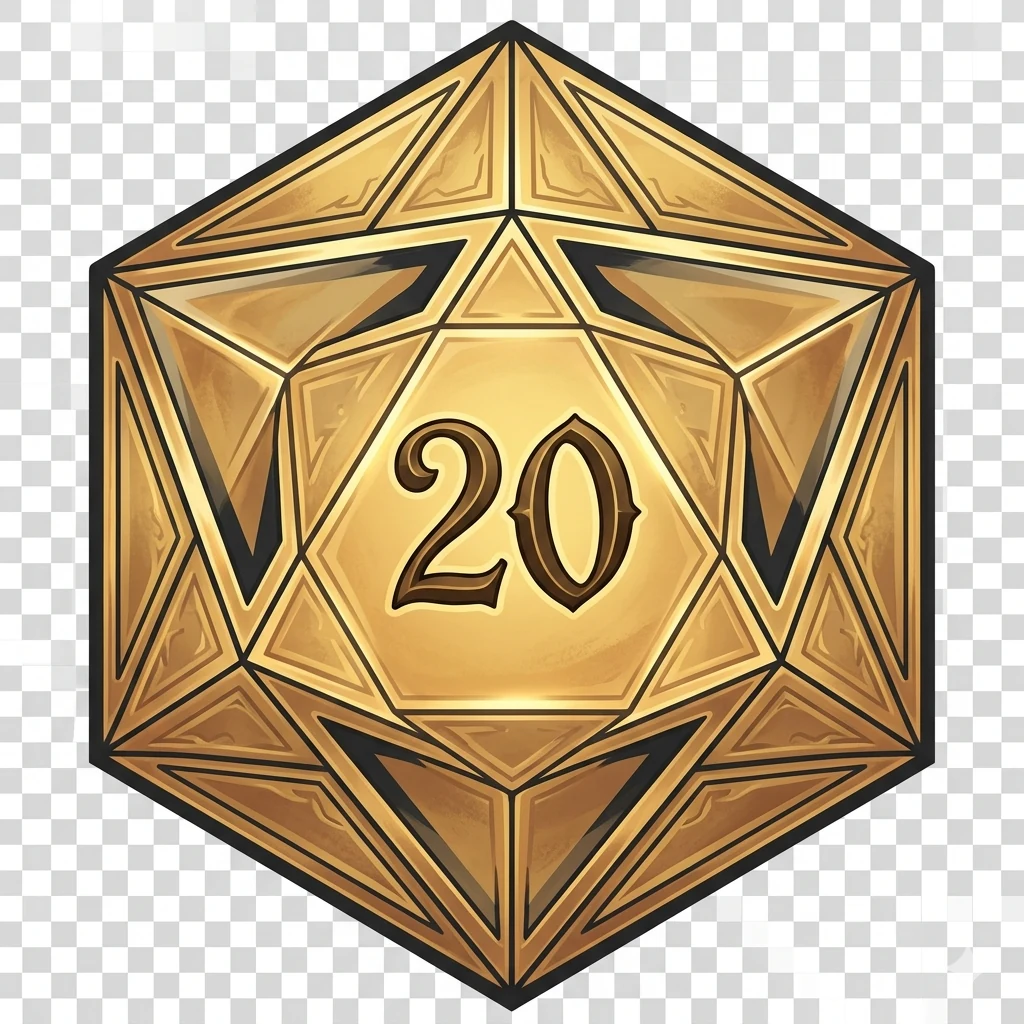
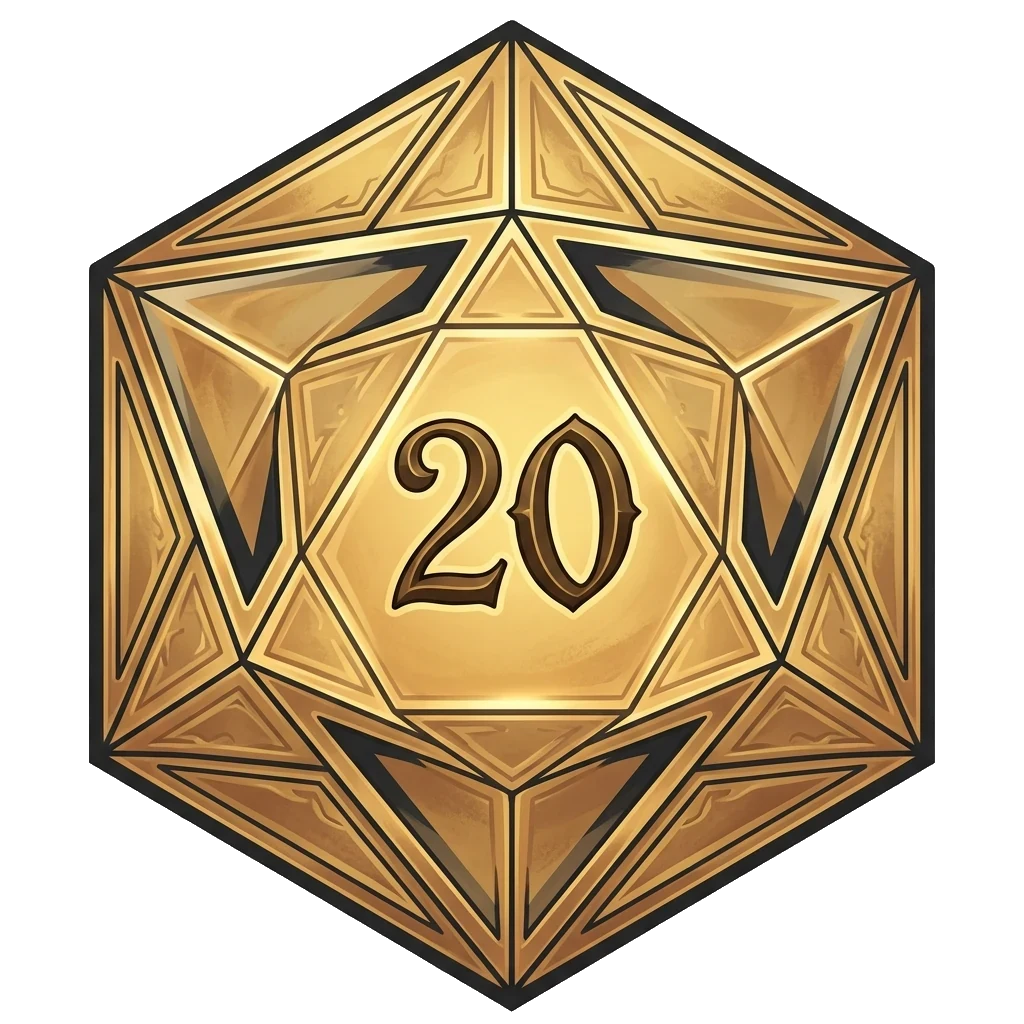
v3.10.6: fix(ui) — прозрачный фон d20 и текстовая d20 в right-rail
Проблема 1: на мобиле d20-fab в таб-баре виден белый/светло-серый
квадрат вокруг полиэдра. Причина: Gemini сгенерировал картинку с
непрозрачным светло-серым фоном (220,220,220), хоть промпт и просил
"transparent background".

Решение: BFS flood-fill из углов по похожему цвету (R,G,B >=180 AND
canal range <40 → бэкграунд). 418103 пикселей превращены в прозрачные,
золотой полиэдр и тёмные обводки сохранены. Файл переписан через PIL:
ImageDraw + getpixel/putpixel, save WebP q=88 method=6.

Проблема 2: на desktop right-rail кнопка d20 с большой картинкой
получилась слишком "увесистой" для боковой панели — пользователь
попросил убрать иконку. Вернули обычный btn-primary с текстом «🎲 d20».
Удалён связанный CSS-блок .rr-d20-btn/.rr-d20-icon/.rr-d20-label.

Cache-bust: CACHE_NAME v83 → v84 — клиенты подтянут свежий webp.

122/122 OK.

Changed region(s): [[0.0, 0.0, 1.0, 1.0]]

diff --git a/style.css b/style.css
@@ -1565,37 +1565,7 @@ body.no-character .drawer-divider { display: none; }
   }
   .rr-dice-grid .btn { padding: 0 4px; }
 
-  /* Большая d20-кнопка в right-rail — картинка d20-fab + надпись */
-  .rr-d20-btn {
-    width: 100%;
-    display: flex;
-    align-items: center;
-    justify-content: center;
-    gap: 10px;
-    padding: 8px 14px;
-    background: linear-gradient(180deg, rgba(212,168,75,0.18), rgba(212,168,75,0.08));
-    border: 1px solid var(--accent-color);
-    border-radius: var(--r-md, 10px);
-    color: var(--accent-color);
-    font-weight: 700;
-    font-size: 1.05em;
-    cursor: pointer;
-    transition: background 0.18s, transform 0.12s, box-shadow 0.18s;
-  }
-  .rr-d20-btn:hover {
-    background: linear-gradient(180deg, rgba(212,168,75,0.28), rgba(212,168,75,0.14));
-    box-shadow: 0 0 14px var(--accent-glow);
-    transform: translateY(-1px);
-  }
-  .rr-d20-btn:active { transform: translateY(0) scale(0.98); }
-  .rr-d20-icon {
-    width: 36px;
-    height: 36px;
-    object-fit: contain;
-    flex-shrink: 0;
-    filter: drop-shadow(0 2px 4px rgba(0,0,0,0.5));
-  }
-  .rr-d20-label { letter-spacing: 0.04em; }
+  /* d20-кнопка в right-rail — обычная btn-primary, без иконки */
 
   /* Inline-баджи активных состояний в right-rail */
   .rr-cond-list {

diff --git a/data.js b/data.js
@@ -1540,7 +1540,7 @@ const ASI_LEVELS = {
 // ============================================================
 // ВЕРСИЯ ПРИЛОЖЕНИЯ
 // ============================================================
-const APP_VERSION = "3.10.5";
+const APP_VERSION = "3.10.6";
 const APP_VERSION_DATE = "2026-05-15";
 
 // ============================================================
@@ -1826,9 +1826,17 @@ const FEATS_DATA = [
 // ============================================================
 const APP_CHANGELOG = [
   {
-    version: "3.10.5",
+    version: "3.10.6",
     date: "15 мая 2026",
     badge: "new",
+    changes: [
+      { type: "fix", text: "Прозрачный фон у d20-fab.webp (Gemini-картинка шла со светло-серым фоном, прогнал flood-fill из углов в Pillow); убрал иконку из right-rail d20-кнопки на desktop — вернул компактный текстовый btn-primary" }
+    ]
+  },
+  {
+    version: "3.10.5",
+    date: "15 мая 2026",
+    badge: "old",
     changes: [
       { type: "fix", text: "d20-кнопка в right-rail (desktop) теперь использует картинку d20-fab вместо эмодзи; openDiceModal страхуется от застрявшего .hidden; cache-bust для всех изменённых файлов" }
     ]

diff --git a/app-desktop.js b/app-desktop.js
@@ -32,7 +32,7 @@
         <button type="button" class="btn btn-secondary btn-sm" data-dice="10">d10</button>
         <button type="button" class="btn btn-secondary btn-sm" data-dice="12">d12</button>
       </div>
-      <button type="button" class="btn-block rr-d20-btn" id="rr-btn-d20" aria-label="Бросить d20"><img src="assets/d20-fab.webp" alt="" class="rr-d20-icon"><span class="rr-d20-label">d20</span></button>
+      <button type="button" class="btn btn-primary btn-block rr-d20-btn" id="rr-btn-d20" aria-label="Бросить d20">🎲 d20</button>
     </div>
     <div class="rr-card rr-conditions">
       <div class="rr-card-head">

diff --git a/sw.js b/sw.js
@@ -2,7 +2,7 @@
 // sw.js — Service Worker для офлайн-работы D&D Sheet
 // ============================================================
 
-const CACHE_NAME = 'dnd-sheet-v83';
+const CACHE_NAME = 'dnd-sheet-v84';
 
 const FILES_TO_CACHE = [
   './',
